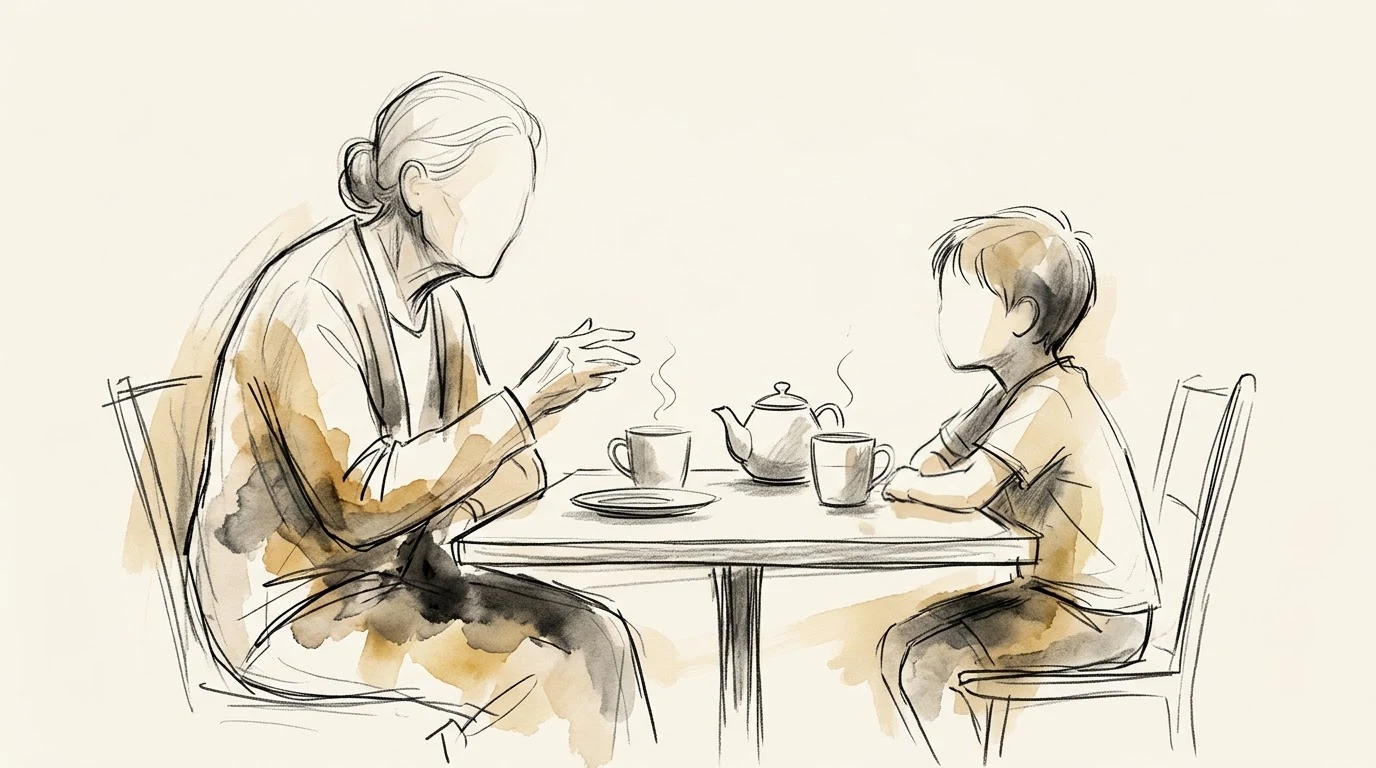
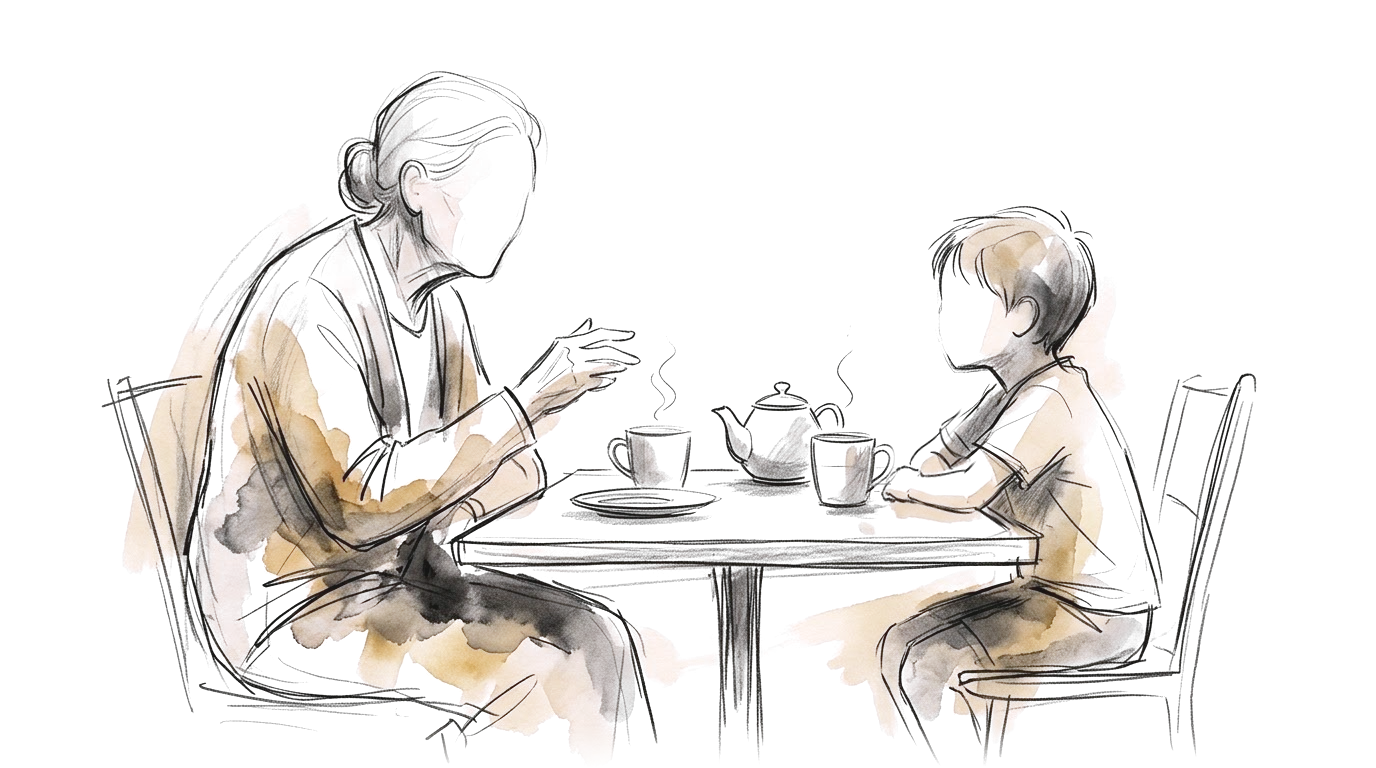
Use transparent hero WebP/PNG for exact background match and add touch-drag menu scrubbing

diff --git a/index.html b/index.html
@@ -206,7 +206,7 @@
             .nav-kebab span { width: 5px; height: 5px; border-radius: 50%; background-color: #ff94b4; display: block; transition: background-color 0.2s ease; }
             .floating-nav.open .nav-kebab { background-color: rgba(254, 246, 235, 0.7); border-color: rgba(233, 101, 88, 0.15); }
             .floating-nav.open .nav-kebab span { background-color: #f47ca0; }
-            .floating-nav ul { position: absolute; top: 100%; right: 0; margin-top: 6px; padding: 0.75rem 0.85rem 0.75rem 1.2rem; background-color: rgba(254, 246, 235, 0.88); border-color: rgba(233, 101, 88, 0.15); box-shadow: 0 6px 24px rgba(233, 101, 88, 0.1); -webkit-backdrop-filter: blur(10px); backdrop-filter: blur(10px); opacity: 0; visibility: hidden; pointer-events: none; transform: translateY(-6px); transition: opacity 0.22s ease, transform 0.22s ease, visibility 0.22s; }
+            .floating-nav ul { position: absolute; top: 100%; right: 0; margin-top: 6px; padding: 0.75rem 0.85rem 0.75rem 1.2rem; background-color: rgba(254, 246, 235, 0.88); border-color: rgba(233, 101, 88, 0.15); box-shadow: 0 6px 24px rgba(233, 101, 88, 0.1); -webkit-backdrop-filter: blur(10px); backdrop-filter: blur(10px); opacity: 0; visibility: hidden; pointer-events: none; transform: translateY(-6px); transition: opacity 0.22s ease, transform 0.22s ease, visibility 0.22s; touch-action: none; }
             .floating-nav ul::before { content: ''; position: absolute; left: 0; right: 0; top: -8px; height: 8px; }
             .floating-nav a { padding: 0.35rem 0.2rem; }
             .floating-nav.open ul { opacity: 1; visibility: visible; pointer-events: auto; transform: translateY(0); padding: 0.75rem 0.85rem 0.75rem 1.2rem; background-color: rgba(254, 246, 235, 0.88); }
@@ -225,25 +225,14 @@
             max-height: 545px;
             min-height: 0;
             margin: 0 auto;
-            background-image: url('background.jpg');
+            background-image: url('background.png');
             background-image: image-set(
                 url('background.webp') type('image/webp'),
-                url('background.jpg') type('image/jpeg')
+                url('background.png') type('image/png')
             );
             background-size: contain;
             background-repeat: no-repeat;
             background-position: center bottom;
-            mix-blend-mode: multiply;
-            filter: brightness(1.12) contrast(1.14);
-            opacity: 0.88;
-            -webkit-mask-image:
-                linear-gradient(to right, transparent 0%, #000 5%, #000 95%, transparent 100%),
-                linear-gradient(to bottom, transparent 0%, #000 6%, #000 94%, transparent 100%);
-            -webkit-mask-composite: source-in;
-            mask-image:
-                linear-gradient(to right, transparent 0%, #000 5%, #000 95%, transparent 100%),
-                linear-gradient(to bottom, transparent 0%, #000 6%, #000 94%, transparent 100%);
-            mask-composite: intersect;
             z-index: 1;
         }
         .home-content-side { position: relative; z-index: 2; order: 1; flex: 0 0 auto; width: 100%; max-width: 980px; height: auto; padding: 0; margin-bottom: clamp(0.45rem, 1.2vh, 1.15rem); background-color: transparent; display: flex; flex-direction: column; justify-content: center; align-items: center; text-align: center; gap: clamp(0.7rem, 1.4vh, 0.95rem); overflow-wrap: break-word; word-break: break-word; }
@@ -694,6 +683,29 @@
         }
 
         let lastTouchTime = 0;
+        let lastDragHref = null;
+
+        function getNavLinkAtY(clientY) {
+            const links = Array.from(navLinks);
+            for (const link of links) {
+                const r = link.getBoundingClientRect();
+                if (clientY >= r.top && clientY <= r.bottom) {
+                    return link;
+                }
+            }
+            let best = null;
+            let bestDist = Infinity;
+            for (const link of links) {
+                const r = link.getBoundingClientRect();
+                const d = Math.abs(clientY - (r.top + r.bottom) / 2);
+                if (d < bestDist) {
+                    bestDist = d;
+                    best = link;
+                }
+            }
+            return best;
+        }
+
         if (navKebab && navContainer) {
             navContainer.addEventListener('touchstart', () => {
                 lastTouchTime = Date.now();
@@ -702,11 +714,13 @@
                 e.stopPropagation();
                 setNavDropdownOpen(!navContainer.classList.contains('open'));
             });
-            document.addEventListener('click', (e) => {
+            const closeOnOutside = (e) => {
                 if (navContainer.classList.contains('open') && !navContainer.contains(e.target)) {
                     setNavDropdownOpen(false);
                 }
-            });
+            };
+            document.addEventListener('click', closeOnOutside);
+            document.addEventListener('touchstart', closeOnOutside, { passive: true });
             navContainer.addEventListener('mouseenter', () => {
                 if (window.innerWidth <= 1120 && Date.now() - lastTouchTime > 500) {
                     setNavDropdownOpen(true);
@@ -736,9 +750,28 @@
                     document.activeElement.blur();
                 }
             });
+            navMenu.addEventListener('touchstart', () => {
+                lastDragHref = null;
+            }, { passive: true });
+            navMenu.addEventListener('touchmove', (e) => {
+                if (window.innerWidth <= 1120 && navContainer && !navContainer.classList.contains('open')) return;
+                if (!e.touches || !e.touches.length) return;
+                e.preventDefault();
+                const link = getNavLinkAtY(e.touches[0].clientY);
+                if (link) {
+                    const href = link.getAttribute('href');
+                    if (href !== lastDragHref) {
+                        lastDragHref = href;
+                        navigateToSection(link, true);
+                    }
+                }
+            }, { passive: false });
+            navMenu.addEventListener('touchend', () => {
+                lastDragHref = null;
+            }, { passive: true });
         }
 
-        // Bounce-scroll to section when hovering (after initial open) or clicking floating nav items
+        // Bounce-scroll to section when hovering (after initial open), dragging, or clicking floating nav items
         navLinks.forEach(link => {
             link.addEventListener('mouseenter', () => {
                 if (navHoverScrollArmed) {
@@ -750,7 +783,6 @@
                 if (navMenu && navMenu.contains(link)) {
                     link.blur();
                 }
-                setNavDropdownOpen(false);
                 navigateToSection(link, false);
             });
         });
